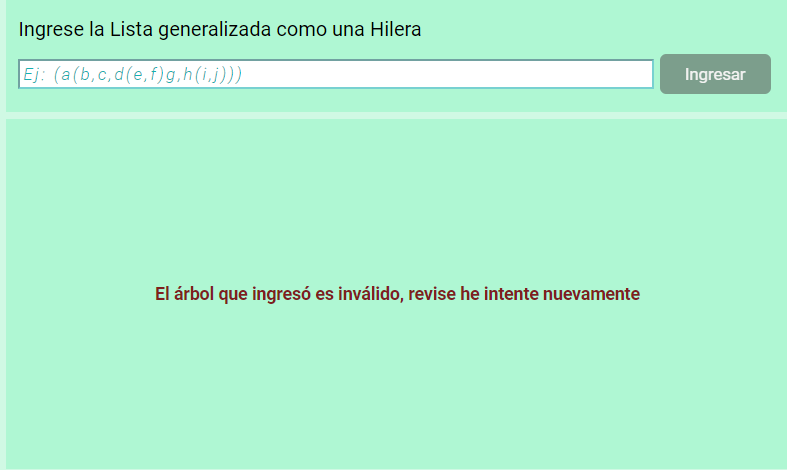
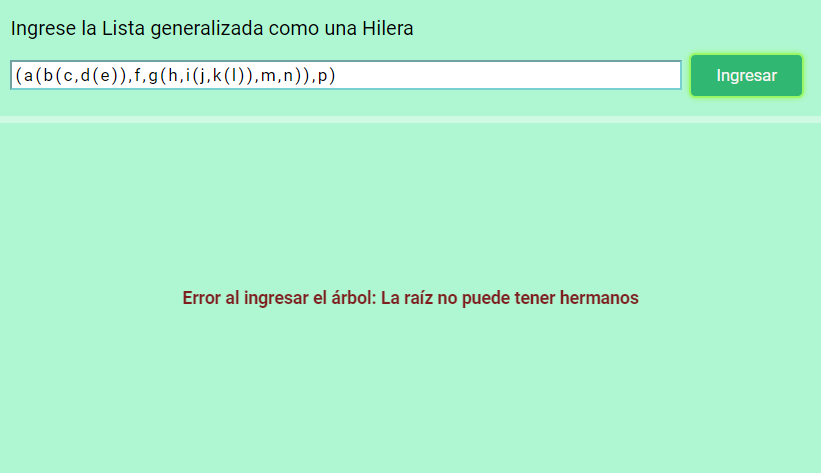
Updated images in instruction modal page

Changed region(s): [[0.0, 0.0, 1.0, 1.0], [0.183, 0.5957, 0.8234, 0.6553]]

diff --git a/index.html b/index.html
@@ -104,7 +104,7 @@
         <section id="enterSection" class="section section--enter">
             <label for="txtTree" class="section-enter__text">Ingrese la Lista generalizada como una Hilera</label>
             <div class="section-enter__form">
-                <input type="text" id="inputTree" class="input input--section-enter" value="" placeholder="Ej: (a(b,c,d(e,f)g,h(i,j)))">
+                <input type="text" id="inputTree" class="input input--section-enter" value="(a(b(c,d(e)),f,g(h,i(j,k(l)),m,n)))" placeholder="Ej: (a(b,c,d(e,f)g,h(i,j)))">
                 <button class="btn btn--section-enter btn--disabled" id="btnEnterTree">Ingresar</button>
             </div>
         </section>
